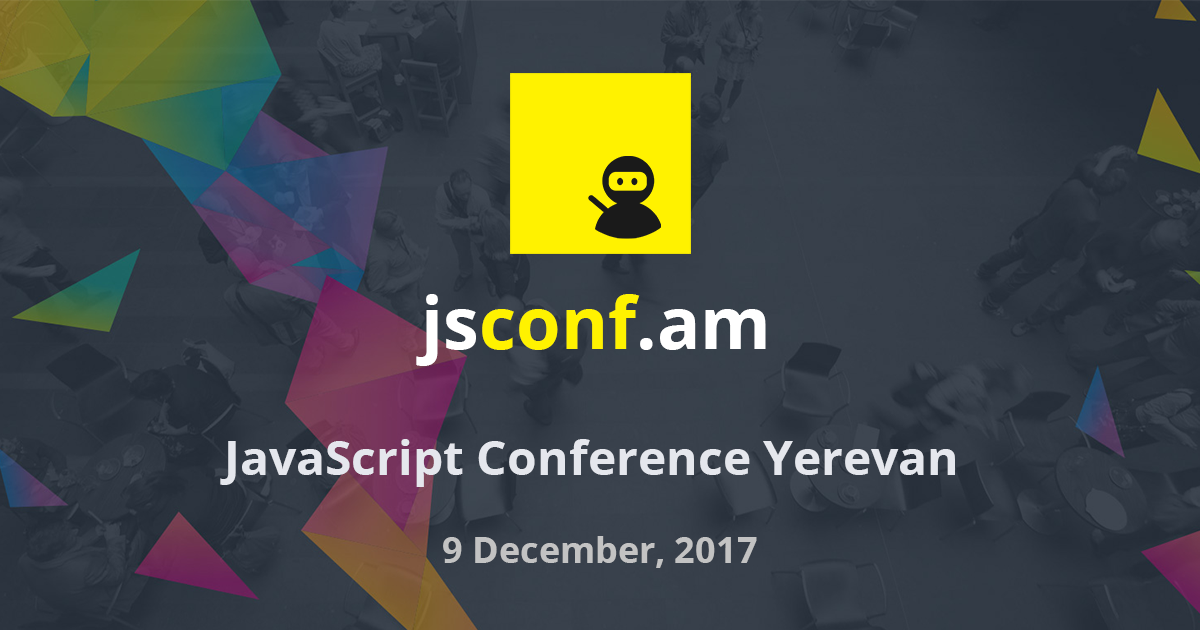
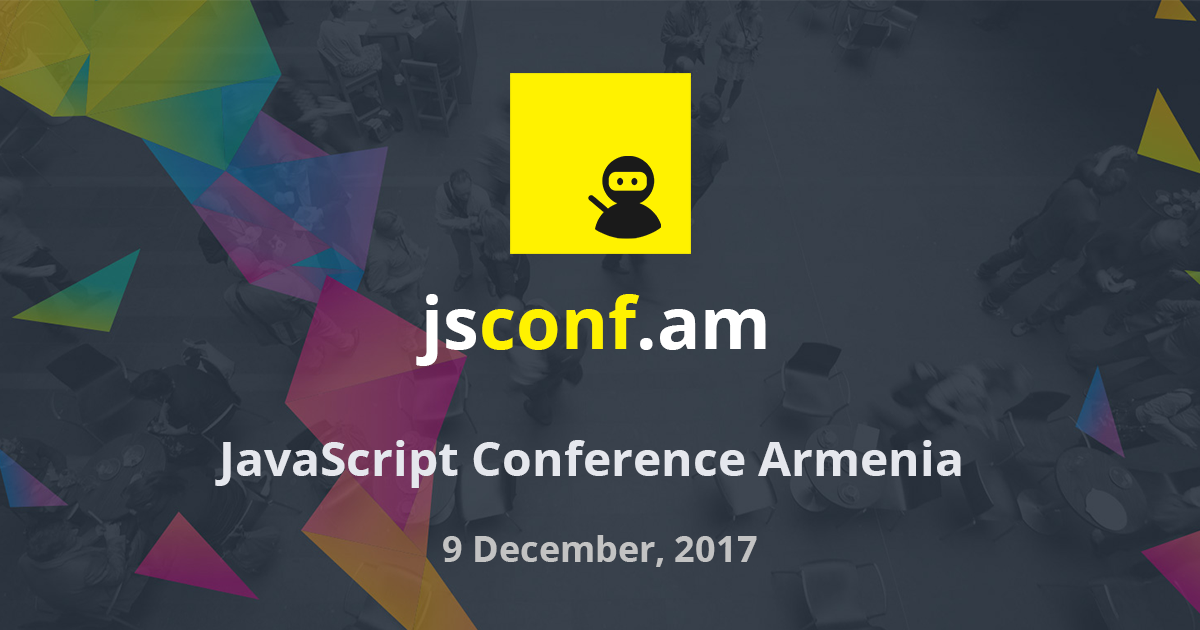
update og-image

Changed region(s): [[0.185, 0.6937, 0.8017, 0.7841], [0.4008, 0.8444, 0.4933, 0.9048], [0.555, 0.8444, 0.5858, 0.9048]]

diff --git a/index.html b/index.html
@@ -16,7 +16,7 @@
     <title>JavaScript Conference Armenia | jsconf.am</title>
     <meta
       property="og:image"
-      content="https://jsconf.am/static/og_conf17.png?v2">
+      content="https://jsconf.am/static/og_conf17.png?v3">
     <meta property="og:description" content="Learn about the modern development ecosystem by attending talks and workshops." />
     <meta property="og:title" content="JavaScript Conference Armenia | jsconf.am" />
 
